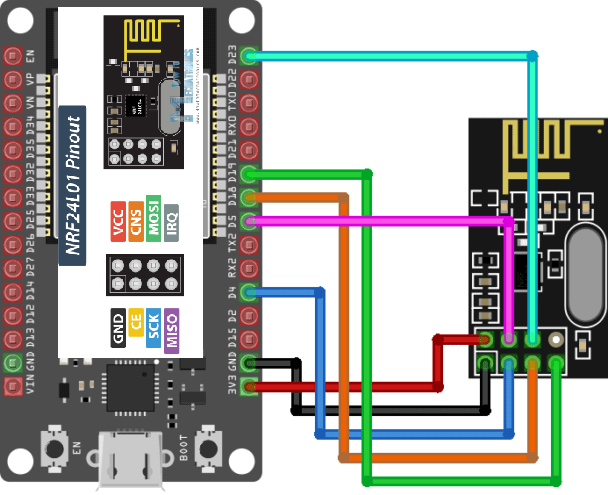
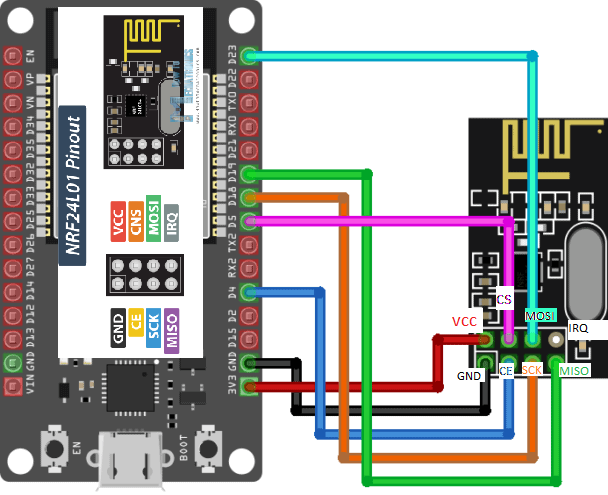
updated esp32 pinout image

Changed region(s): [[0.75, 0.5758, 1.0, 0.697], [0.75, 0.7273, 0.9688, 0.7879]]

diff --git a/src/main.cpp b/src/main.cpp
@@ -49,7 +49,7 @@ int my_putc(char c, FILE *t)
 #endif
 
 // Set up nRF24L01 radio on SPI bus plus CE/CS pins
-static RF24 radio(RF_CE_PIN, RF_CS_PIN);
+static RF24 radio(RF_CE_PIN, RF_CS_PIN); //CE, CS = SS
 
 static NRF24_packet_t bufferData[PACKET_BUFFER_SIZE];
 static CircularBuffer<NRF24_packet_t> packetBuffer(bufferData, sizeof(bufferData) / sizeof(bufferData[0]));
